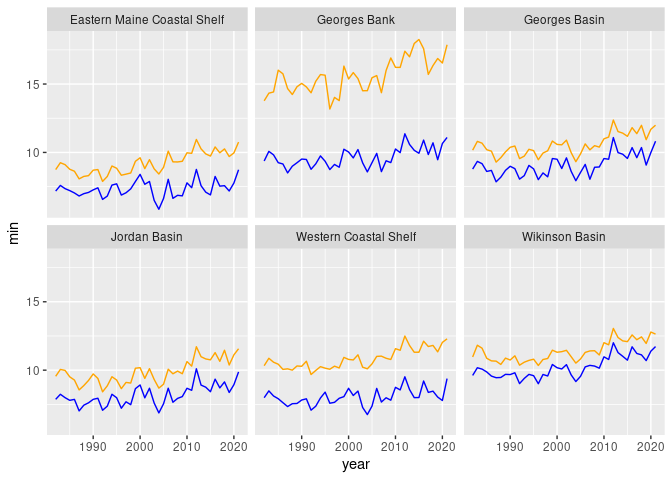
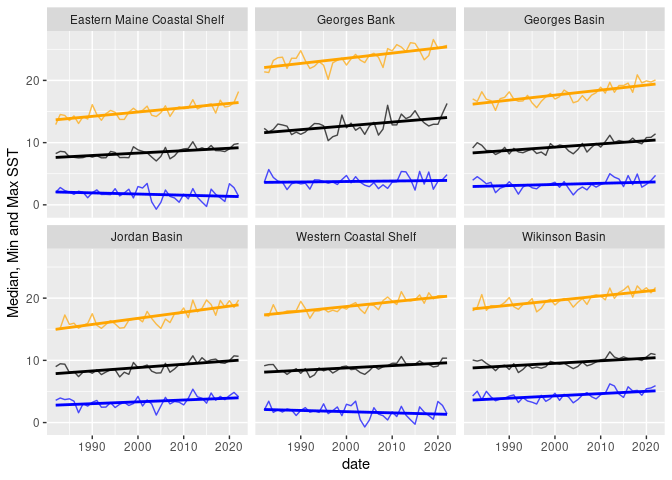
add aggregate_oisst

diff --git a/README-sst.md b/README-sst.md
@@ -57,6 +57,8 @@ ggplot(data = georges_basin, aes(x = date, y = min)) +
 
 ![](README-sst_files/figure-gfm/unnamed-chunk-4-1.png)<!-- -->
 
+Another monthly analysis plot.
+
 ``` r
 name = "Georges Basin"
 plot(stsaav::stsaav(georges_basin,
@@ -68,23 +70,28 @@ plot(stsaav::stsaav(georges_basin,
 
 ![](README-sst_files/figure-gfm/unnamed-chunk-5-1.png)<!-- -->
 
-### Annual Means
+### Annual Metrics
 
 Annual means can be computed from the various sst metrics since each
-month has the same number of pixels are sampled for each region.
+month has the same number of pixels are sampled for each region. Partial
+years are not computed.
 
-Below we compute the annual means and then clip the data to just
-complete years (meaning drop the current year). Then we plot the mean
-max and min by region.
+Note that we compute only the following… the min of the min, the median
+of the median, the mean of the mean and the max of the max. Then we plot
+the max and min by region.
 
 ``` r
-a <- annualize_oisst(x) |>
-  dplyr::filter(year < as.numeric(format(Sys.Date(), "%Y"))-1) |>
+a <- aggregate_oisst(x) |>
   dplyr::group_by(region)
 
-ggplot(data = a, aes(x = year, y = min)) + 
-  geom_line(color = "blue") +
-  geom_line(aes(y = max), color = "orange") +
+ggplot(data = a, aes(x = date, y = median)) + 
+  geom_line(color = "black", alpha = 0.7) +
+  geom_smooth(method = "lm", se = FALSE, color = "black") +
+  geom_line(aes(x = date, y = min), color = "blue", alpha = 0.7) +
+  geom_smooth(aes(x = date, y = min), method = "lm", se = FALSE, color = "blue") +
+  geom_line(aes(x = date, y = max), color = "orange", alpha = 0.7) + 
+  geom_smooth(aes(x = date, y = max), method = "lm", se = FALSE, color = "orange") + 
+  labs(y = "Median, Min and Max SST") + 
   facet_wrap(~region)
 ```
 
